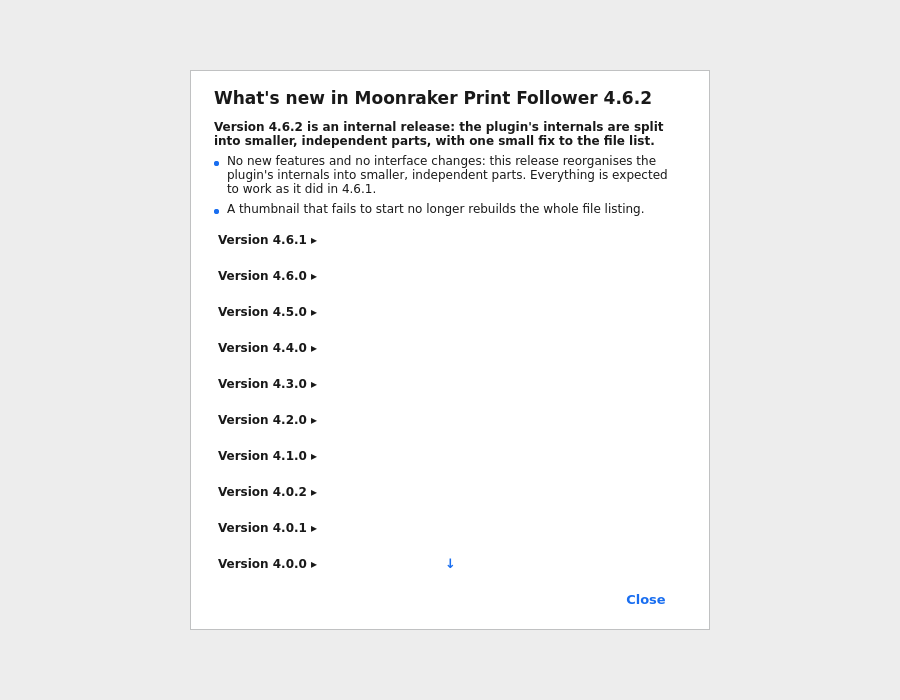
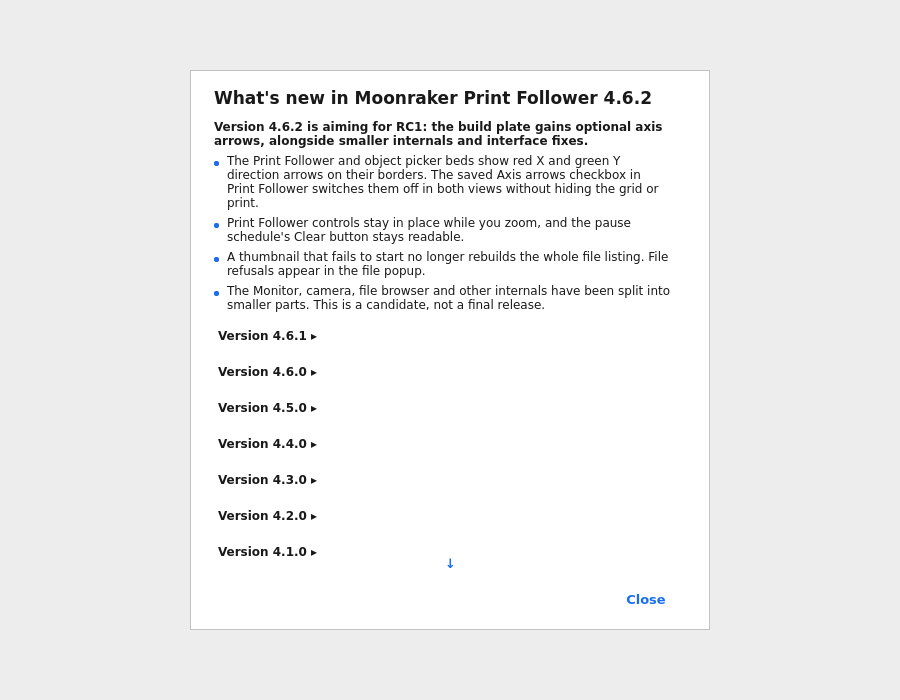
Refresh 4.6.2 RC1 candidate notes and What’s New

Changed region(s): [[0.2178, 0.15, 0.7467, 0.81]]

diff --git a/mpf/whatsnew/WhatsNew.py b/mpf/whatsnew/WhatsNew.py
@@ -27,15 +27,21 @@ from typing import List, Tuple
 WHATS_NEW: Tuple[dict, ...] = (
     {
         "version": "4.6.2",
-        "headline": "Version 4.6.2 is an internal release: the plugin's "
-            "internals are split into smaller, independent parts, with one "
-            "small fix to the file list.",
+        "headline": "Version 4.6.2 is aiming for RC1: the build plate gains "
+            "optional axis arrows, alongside smaller internals and "
+            "interface fixes.",
         "items": (
-            "No new features and no interface changes: this release "
-            "reorganises the plugin's internals into smaller, independent "
-            "parts. Everything is expected to work as it did in 4.6.1.",
+            "The Print Follower and object picker beds show red X and green "
+            "Y direction arrows on their borders. The saved Axis arrows "
+            "checkbox in Print Follower switches them off in both views "
+            "without hiding the grid or print.",
+            "Print Follower controls stay in place while you zoom, and "
+            "the pause schedule's Clear button stays readable.",
             "A thumbnail that fails to start no longer rebuilds the whole "
-            "file listing.",
+            "file listing. File refusals appear in the file popup.",
+            "The Monitor, camera, file browser and other internals have "
+            "been split into smaller parts. This is a candidate, not "
+            "a final release.",
         ),
     },
 

diff --git a/CHANGELOG.md b/CHANGELOG.md
@@ -2,29 +2,39 @@
 
 Moonraker Print Follower is licensed under the GNU General Public License version 3 only (`GPL-3.0-only`).
 
-## 4.6.2
+## 4.6.2 — aiming for RC1 (not released)
 
-Version 4.6.2 is an internal release. The implementation is decomposed into
+Version 4.6.2 is aiming for its first release candidate. The implementation is decomposed into
 narrower owners with explicit inputs — the Monitor's renderer lifecycle and
 publication transaction, the file browser, the camera, toolhead, Preview and
 dashboard QML, the coordinator's refresh pass, the prepared store's session
-and the desktop test harness among them — with no new interface and no change
-to the documented behaviour.
+and the desktop test harness among them. It also includes these visible fixes:
 
 - A thumbnail fetch that cannot start no longer rebuilds the file listing.
   It published on `FileManager.changed`, which rebuilds the whole listing,
   while the same logical failure at the reply published on the thumbnail
   channel alone. Both paths publish on the thumbnail channel now, so a
   thumbnail that fails to start no longer churns the list.
+- File-manager refusals now appear in the file popup's status line as well as
+  the console, instead of leaving the popup waiting without an explanation.
+- Print Follower and Exclude Object Picker show a red X arrow pointing left
+  along the bed's top border and a green Y arrow pointing down its right
+  border. The arrowheads stay inside the bed and print geometry stays above
+  them. Print Follower's saved, default-on **Axis arrows** checkbox controls
+  both views, including their compact and enlarged plates, without hiding
+  the grid or toolpaths.
+- Print Follower's options no longer jump between rows when the plate is
+  zoomed. The pause schedule's **Clear** button remains readable at narrow
+  widths.
 
 Implementation and compatibility notes:
 
-- `MoonrakerMonitorModel.py` is 2798 lines, down from 4486, and its
+- `MoonrakerMonitorModel.py` is about 2800 lines, down from 4486, and its
   `_publish()` is a five-line transaction over the phases it always ran in.
-  No public property, signal or slot changed its name, type or default; no
-  QML document changed for the Python batches, and no file format changed.
-- The QML batches were verified against the committed captures: all fourteen
-  scenes byte-identical after every commit.
+  The decomposition kept existing public properties, signals, slots and file
+  formats intact; the axis control adds a persisted view preference.
+- The decomposition's QML batches were verified against the committed
+  captures. The new bed indicators intentionally change affected captures.
 - The plate renderer's test suite built a cache URL as `"file://"` plus a
   path, which round trips through `QUrl(...).toLocalFile()` on POSIX only.
   On Windows it resolved to nothing, so a discarded raster file outlived its

diff --git a/ROADMAP.md b/ROADMAP.md
@@ -6,14 +6,14 @@ what the releases ahead aim to deliver and why they are ordered the way they are
 Version numbers and the release checklist live in `INSTRUCTIONS.md`. Items here
 are proposals — each becomes binding only when its release branch exists.
 
-Current release branch: **chore/v4.6.2**, the release PR. The release notes
+Current release branch: **chore/v4.6.2**, aiming for RC1 (not released). The release notes
 are maintained in `CHANGELOG.md`, `README.md` and the What's New entries;
 `ARCHITECTURE.md` describes the implementation.
 
-## 4.6.2 — internal decomposition
+## 4.6.2 — internal decomposition and plate polish (aiming for RC1)
 
-An internal release: no new interface, and no behaviour change beyond one
-publication fix found while the work was done.
+An internal decomposition with targeted user-visible improvements; the release
+candidate is still in preparation.
 
 - Decompose the remaining monoliths into owners with explicit inputs — the
   Monitor's renderer lifecycle and publication transaction, the file-browser,
@@ -21,9 +21,15 @@ publication fix found while the work was done.
   pass, the prepared store's session, and the desktop test harness.
 - Publish a thumbnail fetch that cannot start on the thumbnail channel, where
   the same logical failure at the reply already published, rather than on the
-  file manager's listing channel.
+  file manager's listing channel. Surface file-manager refusals in the popup.
+- Add border-aligned X/Y direction arrows to both plate views and a saved,
+  default-on **Axis arrows** control in Print Follower for both compact and
+  enlarged beds. Preserve the grid and print geometry when arrows are off.
+- Keep the Print Follower option rows stable while zooming and the pause
+  schedule's **Clear** label legible.
 - Verify by the whole suite, per-file coverage at the 95% bar, and
-  byte-identical captures for the QML batches.
+  capture comparisons for the decomposition; refresh the affected captures
+  for the intentional plate changes.
 
 ## 4.6.1 — vase following and native development
 

diff --git a/TESTING.md b/TESTING.md
@@ -1,12 +1,14 @@
 # TESTING.md — the real-Cura UI test harness
 
-## Current release: 4.6.2
+## Current candidate: 4.6.2 (aiming for RC1; not released)
 
-Version 4.6.2 decomposes the plugin's internals and changes no interface;
-its one behaviour change is a thumbnail fetch that cannot start publishing
-on the thumbnail channel instead of the file listing's. Its evidence is the
-whole suite, per-file coverage at the 95% bar, and byte-identical captures
-for every QML batch, which `make verify_captures` compares.
+Version 4.6.2 decomposes the plugin's internals and adds shared, switchable
+bed-axis arrows, zoom-stable Print Follower controls and a readable pause
+**Clear** button. It also routes thumbnail start failures to the thumbnail
+channel and file refusals to the popup. The decomposition was checked with
+the whole suite, per-file coverage at the 95% bar and capture comparisons;
+the changed plate captures are intentional. `make verify_captures` compares
+current rendering to the committed captures.
 
 Run the cross-platform test suite with `make run_tests JOBS=2`; use
 `make test_files FILES='tests.test_index_physical_progress tests.test_qml_settings' JOBS=1`
@@ -17,6 +19,9 @@ the parser. The extracted owners carry their own suites —
 `tests.test_monitor_publication`, `tests.test_camera_recovery`,
 `tests.test_pause_at_layer_presentation`, `tests.test_plate_view_policy`,
 `tests.test_plate_painter` and `tests.test_prepared_store`.
+Axis geometry, shared preference and render-path coverage live in
+`tests.test_plate_axis_geometry`, `tests.test_gpu_follower`,
+`tests.test_qml_object_picker` and `tests.test_qml_plate_geometry`.
 Camera transport coverage lives in `tests.test_monitor_camera_runtime`,
 `tests.test_moonraker_mjpg` and `tests.test_qml_camera_controls`.
 `make lint`, `make verify_captures`, and `make package` cover the

diff --git a/README.md b/README.md
@@ -9,18 +9,24 @@ Moonraker Print Follower is a unified Cura integration for Klipper/Moonraker. It
 - **Maintainer:** moonrakerprintfollower@maintain.contact
 - **Project:** https://github.com/shallax/MoonrakerPrintFollower
 - **Release:** 4.6.2
+- **Status:** Aiming for RC1; not released
 - **Target:** Cura 5.7–5.13 / SDK 8.7–8.12
 
 ## What changed in 4.6.2
 
-Version 4.6.2 is an internal release. The plugin's implementation is
-decomposed into narrower owners with explicit inputs, with no new interface
-and no change to the documented behaviour.
+Version 4.6.2 is aiming for RC1, not yet released. It splits the Monitor,
+file browser, camera, toolhead, Preview, dashboard and test harness into
+smaller owners while retaining existing settings and workflows.
 
-One fix ships with it: a thumbnail that fails to start no longer rebuilds
-the whole file listing. That failure published on the file manager's listing
-channel while the same logical failure at the reply published on the
-thumbnail channel alone; both report on the thumbnail channel now.
+The Print Follower and Exclude Object Picker beds gain red left-pointing X
+and green downward Y arrows on their top and right borders, beneath print
+geometry. The default-on **Axis arrows** checkbox in Print Follower saves
+your choice for both views, on small and enlarged beds, without hiding the
+grid or print. Print Follower's controls stay in place as you zoom, and the
+pause schedule's **Clear** button stays legible at narrow widths.
+
+A thumbnail that fails to start no longer rebuilds the file listing; file
+refusals also appear in the file popup rather than leaving it waiting.
 
 ## What changed in 4.6.1
 
